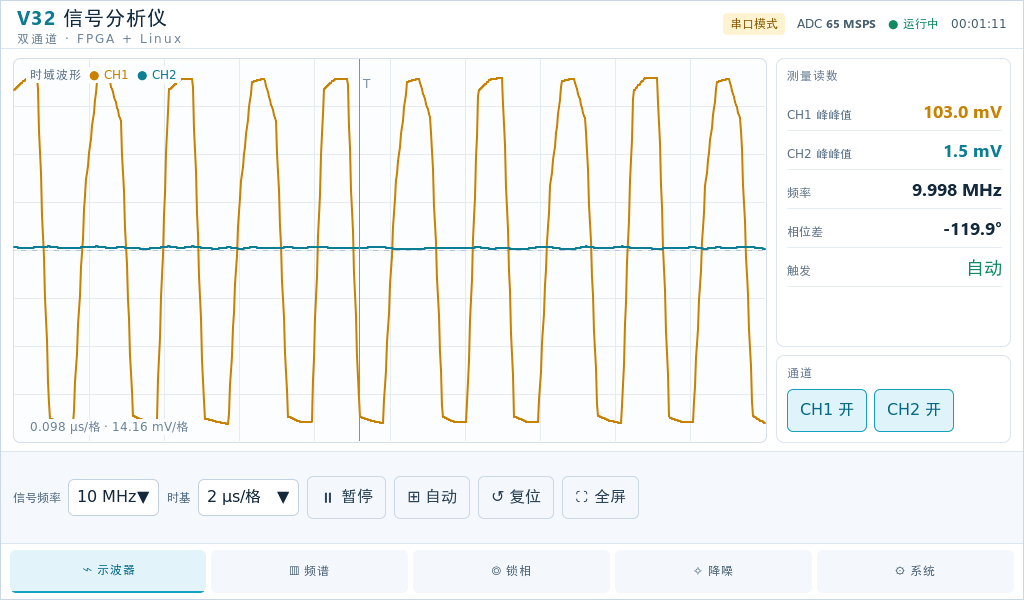
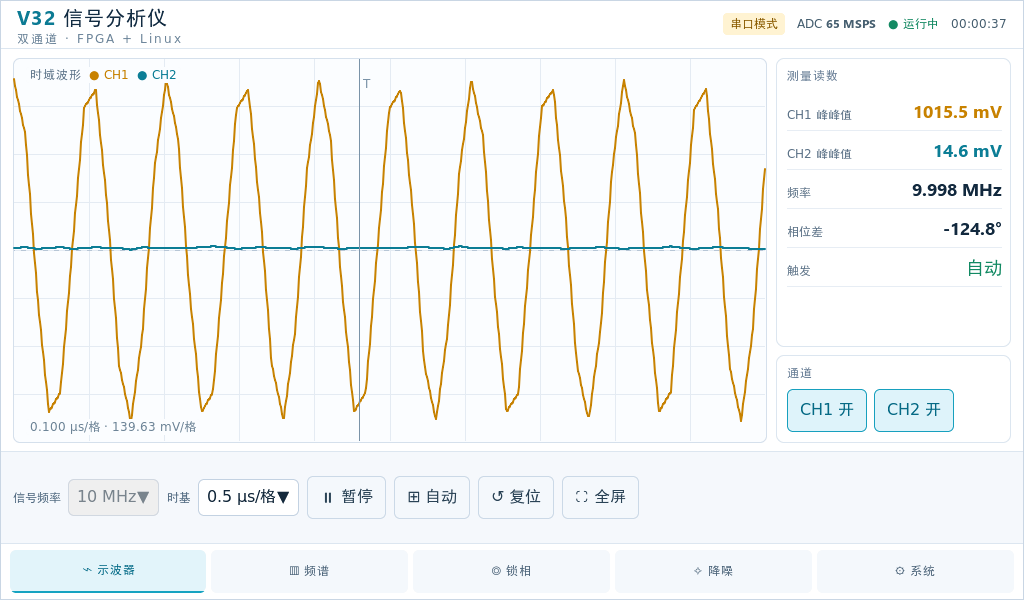
自动设置按 10 个周期框窗 + 修正电压 10 倍误差 + 时基下拉框真正可用
- 新增 auto_fit_apply()：用同一帧 FFT 峰值频率把窗口框成正好 10 个周期，
  纵向满刻度 = 峰峰值的 110%（按显示窗口统计，不是整帧）
- cb_auto 只置 S.auto_fit 标志，两指捏放/改时基/复位都会清掉，不会抢回窗口
- V32_ADC_MV_PER_LSB 0.2441 -> 2.441：原来按数据手册的 1Vpp 满量程推的，
  实际前端是 10:1 衰减，导致所有电压读数小 10 倍（1Vpp 显示 100mV）
- 时基下拉框改成真正控制时间窗口（原来点了只覆盖标签，等于没用），
  并自动同步到最接近的档位，避免「显示 2µs/格 而实际 6.302」
- 信号频率下拉框在真实模式下置灰：频率由 FFT 实测，它只对 --source demo 有意义
- 捏合最小窗口 64 -> 8 点，能贴到单样点看
- v32cap3 加 WAVE_IDXDBG 诊断：打印每帧 start_idx 步进

diff --git a/src/ui.c b/src/ui.c
@@ -103,6 +103,7 @@ static struct {
     float phase;        /* ° */
     bool  fullscreen;
     bool  use_real;     /* WAVE_SRC=real */
+    bool  auto_fit;     /* 按下「自动」后等下一帧真实数据到位再算窗口 */
     demo_sig_t sig;
 } S;
 
@@ -124,6 +125,7 @@ static lv_obj_t *s_lbl_clock, *s_lbl_run_status;
 
 static lv_obj_t *s_chip_ch1, *s_chip_ch2, *s_chip_ai, *s_chip_run;
 static lv_obj_t *s_dd_freq;
+static lv_obj_t *s_dd_tb;              /* 时基下拉框，真实模式下要跟着窗口同步 */
 
 /*
  * 原来这里还有 s_slider_noise / s_lbl_noise（控制条上的「噪声」滑条）。
@@ -484,7 +486,19 @@ static int      s_zoom_start;
 
 #define ZOOM_GAIN_MIN   0.05f
 #define ZOOM_GAIN_MAX   200.0f
+
+/*
+ * 横向最少显示多少个样点（= 最大放大倍率）。
+ * 原来是 64 点（≈0.98 µs），10 MHz 以下根本放不到 1 个周期里看细节。
+ * 现在放开到 8 点（≈0.123 µs），配合下面的线性插值分支，能贴到单个样点看。
+ * 上限就是整帧 4096 点 —— 一帧只有 63 µs，这是接收端的硬边界，不是缩放限制。
+ */
+#define ZOOM_SPAN_MIN   8
+
 static float    s_gain = 1.0f;          /* 1.0 = 按整帧满幅铺满 */
+/* 程序里同步「时基」下拉框时置位，避免 set_selected 反过来触发 cb_timebase
+ * 把刚捏好的窗口又按档位拍扁（会形成「捏不动」的假象）。 */
+static bool     s_tb_lock;
 
 /* 抽样中位数当底噪：每 16 个 bin 取一个，插入排序足够快，
  * 而且不会被单根强谱线带偏（用平均值就会）。 */
@@ -544,6 +558,63 @@ static float phase_diff_deg(const float *x0, const float *x1, int n,
     return d * 180.0f / pi;
 }
 
+static void update_axis_label(void);
+static void sync_timebase_dd(float us_div);
+
+/*
+ * 「自动」（AUTO / 自动设置）真正要做的两件事：
+ *   ① 横向：用 FFT 峰值频率把窗口框成**正好 10 个完整周期**
+ *   ② 纵向：满刻度 = 峰峰值的 **110%**（波形居中，上下各留 5%）
+ *
+ * 为什么不放在 cb_auto() 里直接算：峰值频率是 real_update() 里 FFT 算出来的，
+ * 按下 AUTO 的那一刻它多半还是上一帧的值。放到 real_update() 末尾，
+ * 用的就是同一帧刚算好的 s_real_peak_hz，窗口和读数天然一致。
+ *
+ * 只执行一次，算完清标志。之后两指捏放立即接管 —— ui_pinch_zoom/gain 会把
+ * S.auto_fit 清掉，不然你捏完松手它又跳回 10 个周期，会以为是手势乱了。
+ */
+static void auto_fit_apply(int fn)
+{
+    if(fn < 8) return;
+
+    /* ① 10 个完整周期 */
+    if(s_real_peak_hz > 1.0f) {
+        const wave_source_t *src = wave_source_get();
+        const float fs = (src && src->sample_rate > 0)
+                       ? (float)src->sample_rate : 65000000.0f;
+        int span = (int)(10.0f * fs / s_real_peak_hz + 0.5f);
+        if(span < 4)  span = 4;
+        if(span > fn) span = fn;
+        s_zoom_span  = span;
+        s_zoom_start = (fn - span) / 2;
+    }
+
+    /* ② 满刻度 = 峰峰值的 110%。
+     *    峰峰值按**显示窗口**统计，不按整帧 —— 整帧里有个毛刺就会把波形压小，
+     *    那就不是「纵轴最高到峰峰值的 110%」了。 */
+    {
+        const int st0 = s_zoom_start;
+        const int n   = (s_zoom_span > 0) ? s_zoom_span : fn;
+        float mn = s_full0[st0], mx = s_full0[st0];
+        for(int i = 0; i < n && st0 + i < fn; i++) {
+            const float v0 = s_full0[st0 + i];
+            const float v1 = s_full1[st0 + i];
+            if(v0 < mn) mn = v0;
+            if(v0 > mx) mx = v0;
+            if(v1 < mn) mn = v1;
+            if(v1 > mx) mx = v1;
+        }
+        float span = mx - mn;
+        if(span < 1e-3f) span = 1e-3f;
+        s_real_lo = mn - span * 0.05f;
+        s_real_sc = 1.0f / (span * 1.10f);
+    }
+
+    s_gain = 1.0f;
+    S.auto_fit = false;
+    update_axis_label();
+}
+
 static void real_update(void)
 {
     /*
@@ -574,6 +645,9 @@ static void real_update(void)
          * 让上层画零线，而不是把最后一帧冻在屏幕上。 */
         if((uint32_t)(lv_tick_get() - s_real_t_last) > REAL_STALE_MS) return;
         s_real_valid = true;
+        /* 按了 AUTO 但这一帧没变（比如刚按完就暂停）也要把窗口算出来，
+         * 否则标志一直挂着，等下一帧才生效，看着像 AUTO 没反应。 */
+        if(S.auto_fit) auto_fit_apply(s_full_n);
         return;
     }
 
@@ -645,6 +719,8 @@ static void real_update(void)
     s_real_fid   = st->last_frame_id;
     s_real_t_last = lv_tick_get();
     s_real_valid = true;
+
+    if(S.auto_fit) auto_fit_apply(fn);
 }
 
 /*
@@ -755,6 +831,32 @@ static void update_axis_label(void)
         lv_label_set_text(s_lbl_scope_axis, buf);
         snprintf(last, sizeof last, "%s", buf);
     }
+
+    sync_timebase_dd(us_div);
+}
+
+/* 把「时基」下拉框拨到和当前真实窗口最接近的那一档。
+ *
+ * 为什么不干脆不显示：这个下拉框现在是真的能改窗口的（cb_timebase），
+ * 如果它停在「2 µs/格」而左边读数写着 6.302，用户会以为又被骗了。
+ * 它是**档位**不是精确值，精确值看左下角那行。 */
+static void sync_timebase_dd(float us_div)
+{
+    if(!s_dd_tb || !S.use_real) return;
+
+    int   best  = 0;
+    float bestd = 1e9f;
+    for(int i = 0; i < 5; i++) {
+        float d = us_div - TIMEBASE_US[i];
+        if(d < 0.f) d = -d;
+        if(d < bestd) { bestd = d; best = i; }
+    }
+    if((int)lv_dropdown_get_selected(s_dd_tb) == best) return;
+
+    S.tb_idx  = best;
+    s_tb_lock = true;
+    lv_dropdown_set_selected(s_dd_tb, (uint32_t)best);
+    s_tb_lock = false;
 }
 
 /*
@@ -772,7 +874,7 @@ void ui_pinch_zoom(float scale, float anchor)
     if(s_zoom_span <= 0 || s_zoom_span > total) s_zoom_span = total;
 
     int span = (int)((float)s_zoom_span / scale + 0.5f);
-    if(span < 64) span = 64;                 /* 最小 64 点 ≈ 0.98 µs */
+    if(span < ZOOM_SPAN_MIN) span = ZOOM_SPAN_MIN;   /* 最小 8 点 ≈ 0.123 µs */
     if(span > total) span = total;
 
     const int anchor_sample = s_zoom_start + (int)(anchor * (float)s_zoom_span);
@@ -783,6 +885,7 @@ void ui_pinch_zoom(float scale, float anchor)
 
     s_zoom_span  = span;
     s_zoom_start = start;
+    S.auto_fit = false;          /* 手动缩放立即接管，别让 AUTO 又跳回 10 个周期 */
     update_axis_label();
 }
 
@@ -796,6 +899,7 @@ void ui_pinch_gain(float ratio)
     s_gain *= ratio;
     if(s_gain < ZOOM_GAIN_MIN) s_gain = ZOOM_GAIN_MIN;
     if(s_gain > ZOOM_GAIN_MAX) s_gain = ZOOM_GAIN_MAX;
+    S.auto_fit = false;          /* 纵向手动调整同样接管，理由见 ui_pinch_zoom */
     if(S.ch1 || S.ch2) update_axis_label();
 }
 
@@ -1303,13 +1407,41 @@ static void cb_freq(lv_event_t *e)
 
 static void cb_timebase(lv_event_t *e)
 {
+    if(s_tb_lock) return;        /* 程序在同步档位，不是用户点的 */
     S.tb_idx = (int)lv_dropdown_get_selected(lv_event_get_target(e));
-    /* 真实数据时时基由帧长决定（4096 点 @65 MSPS = 63 µs 满屏），
-     * 下拉框只对演示数据有意义 —— 所以写完立刻让 update_axis_label() 覆盖回去，
-     * 否则真实链路下点一下下拉框，左下角就变成和波形对不上的假读数。 */
-    if(S.use_real) update_axis_label();
-    else            lv_label_set_text_fmt(s_lbl_scope_axis, "%g µs/格 · 触发 自动",
-                                         (double)TIMEBASE_US[S.tb_idx]);
+
+    if(S.use_real) {
+        /*
+         * 真实链路：这个下拉框**现在真的改时间窗口**。
+         * 以前这里只是把标签覆盖回去，点了等于没反应 —— 用户会以为控件坏了。
+         *
+         *   一屏 = V32_GRID_X 格  ⇒  span = (µs/格) × 格数 × fs
+         *
+         * 上限是整帧：4096 点 @65 MSPS 只有 63 µs，想看更长的时间窗
+         * 只能让 FPGA 端做抽取（协议头里有 decimation 字段，见 v32cap3.h）。
+         */
+        const wave_source_t *src = wave_source_get();
+        const float fs = (src && src->sample_rate > 0) ? (float)src->sample_rate : 65000000.0f;
+        const int   total = s_full_n > 0 ? s_full_n : V32_POINTS;
+
+        int span = (int)(TIMEBASE_US[S.tb_idx] * 1e-6f * fs * (float)V32_GRID_X + 0.5f);
+        if(span < ZOOM_SPAN_MIN) span = ZOOM_SPAN_MIN;
+        if(span > total)         span = total;
+
+        /* 以当前窗口中心为基准缩放，改时基时波形不会突然跳到一边 */
+        const int c = s_zoom_start + ((s_zoom_span > 0 ? s_zoom_span : total) / 2);
+        int start = c - span / 2;
+        if(start < 0) start = 0;
+        if(start > total - span) start = total - span;
+
+        s_zoom_span  = span;
+        s_zoom_start = start;
+        S.auto_fit   = false;        /* 手动改时基就退出 AUTO 跟踪 */
+        update_axis_label();
+    } else {
+        lv_label_set_text_fmt(s_lbl_scope_axis, "%g µs/格 · 触发 自动",
+                              (double)TIMEBASE_US[S.tb_idx]);
+    }
     ui_tick();
 }
 
@@ -1388,9 +1520,17 @@ static void cb_auto(lv_event_t *e)
 {
     LV_UNUSED(e);
 
-    s_zoom_span  = 0;
-    s_zoom_start = 0;
-    s_gain       = 1.0f;
+    if(S.use_real) {
+        /* 真实链路：只置标志。窗口由 real_update() 末尾的 auto_fit_apply()
+         * 用**同一帧**刚算好的 FFT 峰值频率去框 10 个完整周期，
+         * 这里自己改 s_zoom_span 的话会跟真实帧对不上。 */
+        S.auto_fit = true;
+    } else {
+        /* 演示源没有真实 FFT，保持原来的「整帧 + 1:1」 */
+        s_zoom_span  = 0;
+        s_zoom_start = 0;
+    }
+    s_gain = 1.0f;
 
     S.running = true;
     S.ch1 = true;
@@ -1415,10 +1555,12 @@ static void cb_reset(lv_event_t *e)
     S.win_idx = WIN_DEF; S.tau_idx = TAU_DEF; S.phase = 43.7f;
     S.sig.t = 0.f;
 
-    /* 显示缩放回位：整帧 + 纵向 1:1（示波器的「自动设置」） */
+    /* 显示缩放回位：整帧 + 纵向 1:1（这是「复位」，不是「自动」——
+     * 自动走的是 auto_fit_apply()，会按 FFT 峰值频率框 10 个周期） */
     s_zoom_span  = 0;
     s_zoom_start = 0;
     s_gain       = 1.0f;
+    S.auto_fit   = false;
     /* 控件回位（设了下拉框会触发 VALUE_CHANGED，顺手把状态也同步了） */
     lv_dropdown_set_selected(s_dd_freq, (uint32_t)FREQ_DEF);
     {
@@ -1484,6 +1626,12 @@ static void build_controls(lv_obj_t *root)
     lv_obj_t *g1 = mk_group(bar, "信号频率");
     s_dd_freq = mk_dropdown(g1, FREQ_OPTS, FREQ_DEF, cb_freq);
     lv_obj_set_style_max_width(s_dd_freq, V32_SEL_MAX_W, LV_PART_MAIN);
+    /*
+     * 真实数据时这个下拉框改不动任何东西 —— 信号频率是 FFT 从真实帧里量出来的
+     * （示波器页左下角「频率」那一项），下拉框只在 --source demo 下有意义。
+     * 与其让人点了没反应以为坏了，不如直接置灰。
+     */
+    if(S.use_real) lv_obj_add_state(s_dd_freq, LV_STATE_DISABLED);
 
     /*
      * 原来这里还有一组「噪声」滑条（lv_slider + 百分比标签）。
@@ -1499,6 +1647,7 @@ static void build_controls(lv_obj_t *root)
 
     lv_obj_t *gs = mk_group(cp, "时基");
     lv_obj_t *dd_tb = mk_dropdown(gs, TIMEBASE_OPTS, TIMEBASE_DEF, cb_timebase);
+    s_dd_tb = dd_tb;
     lv_obj_set_style_max_width(dd_tb, V32_SEL_MAX_W, LV_PART_MAIN);
     s_ctrl_grp[UI_PAGE_SCOPE] = gs;
 

diff --git a/src/v32cap3.c b/src/v32cap3.c
@@ -57,6 +57,7 @@ static int         s_baud_actual;   /* 驱动实际生效的波特率 */
 static uint32_t    s_last_id;
 static uint64_t    s_last_index;
 static int         s_have_last;
+static int         s_idxdbg = -1;   /* -1 = 还没查环境变量；见 WAVE_IDXDBG */
 
 /* 帧率统计窗口 */
 static struct timespec s_fps_t0;
@@ -242,6 +243,23 @@ static void v32_feed(const uint8_t *data, int n)
                 continue;
             }
             s_st.missing_frames += delta - 1u;
+        }
+
+        /*
+         * 帧连续性诊断（WAVE_IDXDBG=1 打开）。
+         *
+         * 协议头的 start_idx 是这个窗口在 ADC 样点序列里的绝对下标。
+         *   d = 4096  ⇒ 相邻帧在时间上严丝合缝，理论上可以拼接成更长的一段
+         *   d ≫ 4096 ⇒ 帧与帧之间有空洞（串口来不及传，中间全丢了），
+         *              那就**绝对不能**把两帧接起来当成连续信号画。
+         * 这个判断决定了「能不能在软件里看更长的时间窗」，所以留着这个开关。
+         */
+        if (s_idxdbg < 0) s_idxdbg = getenv("WAVE_IDXDBG") ? 1 : 0;
+        if (s_idxdbg) {
+            fprintf(stderr, "[idx] fid=%u start=%llu d=%lld decim=%u\n",
+                    (unsigned)fid, (unsigned long long)start_idx,
+                    s_have_last ? (long long)(start_idx - s_last_index) : -1LL,
+                    (unsigned)dec);
         }
 
         s_stage.frame_id    = fid;

diff --git a/src/v32cap3.h b/src/v32cap3.h
@@ -109,10 +109,20 @@ int                v32_uart_loopback_test(const char *dev, int baud, int bytes);
 /* 把 int16 ADC 码值转成毫伏。
  *
  * ⚠ 这个换算**依赖模拟前端量程**，协议里只给码值，没给伏特。
- *    默认按 AD9238 差分 1 Vpp 满量程、4096 码估：
- *        1000 mV / 4096 = 0.2441 mV/码
- *    真实量程（前端衰减/增益）定下来后改这一个数就行。
+ *
+ * 实测标定（不要按数据手册猜，这里已经踩过一次）：
+ *   · 交接包实测证据 `30m_100mv_normal_01`：发生器 100 mVpp
+ *     → 拟合 Vpp 41.23 码 → 2.426 mV/码
+ *   · 板上复核：发生器 1 Vpp → 界面读数 100 mV，正好差 10 倍
+ * 两个来源互相印证，说明前端有 10:1 衰减（或 ADC 等效满量程 10 Vpp）：
+ *        1000 mV × 10 / 4096 = 2.441 mV/码
+ *
+ * 以前这里写的是 0.2441（按「AD9238 差分 1 Vpp 满量程」从手册推的），
+ * 后果是**所有电压读数都小 10 倍** —— 1 Vpp 显示成 100 mV，
+ * 连带着每格毫伏、Vpp 读数、纵向量程全错。
+ *
+ * 换前端板卡必须重新标定：给一个已知幅度的正弦，用读数反算这一个常数。
  */
-#define V32_ADC_MV_PER_LSB   0.2441f
+#define V32_ADC_MV_PER_LSB   2.441f
 
 #endif /* V32CAP3_H */

diff --git a/README.md b/README.md
@@ -18,6 +18,10 @@
 
 界面是**白底 + 中文**，按钮条从左到右：`⏸ 暂停` / `⊞ 自动` / `↺ 复位` / `⛶ 全屏`。
 
+**`⊞ 自动`**：按 FFT 实测的峰值频率把窗口框成**正好 10 个完整周期**，
+纵向满刻度设成**峰峰值的 110%**（波形居中，上下各留 5%）。10 MHz 实测结果
+是 `0.100 µs/格`、`139.63 mV/格`（8 格 × 139.63 = 1.117 V = 1.10 × 1.0155 V）。
+
 ---
 
 ## 0. 先看效果
@@ -738,6 +742,12 @@ WAVE_TDBG=1 /usr/bin/waveform_demo --source uart --view scope --baud 921600 &
 8. **降噪页的「5 点中值」会让边沿看起来变陡**：65 MSPS 下 10 MHz 每周期只有
    6.5 点，跳变的 1~2 个过渡样点在 5 点窗口里是少数派，被中值当离群点压掉了。
    真实上升时间被抹掉，所以**边沿宽度不能以这一页为准**；面板上已写明。
+9. **一屏最多 63 µs，这是接收端的硬边界**：4096 点 @65 MSPS = 63.015 µs，
+   缩放上限就是整帧。实测相邻两帧的 `start_idx` 相差 **11,683,694 个样点**
+   （一帧才 4096），也就是说两帧之间丢掉了 99.96% 的采样，**帧与帧不能拼接**。
+   所以 10 kHz 以下的信号一屏显示不满一个周期，任何 UI 缩放都救不回来 ——
+   只能让 FPGA 端做抽取（协议头 offset 20 的 `decimation` 字段就是干这个的，
+   现在接收端还只接受 `dec=1`，见第 13 节）。
 
 ---
 
@@ -795,3 +805,26 @@ git remote set-url origin https://github.com/Creamy-coffee/rk3506-waveform-demo.
 
 但**不要用 `git config credential.helper store`**——那会把明文令牌写进
 `~/.git-credentials`。本工程一直是用一次性的 `http.extraheader` 传令牌，不落盘。
+
+---
+
+## 13. 想显示更长时间窗：只能在 FPGA 端抽取
+
+`v32cap3.h` 的帧头 offset 20 是 `decimation` 字段，协议设计时就留了这个位置。
+接收端目前**只接受 `dec=1`**（`v32cap3.c` 的帧头校验里 `dec != V32_DECIMATION` 直接丢弃）。
+
+一帧固定 4096 点，所以能显示的时间窗只由抽样率决定：
+
+| decimation | 有效采样率 | 一帧时长 | 15 kHz 信号一屏几个周期 |
+|---|---|---|---|
+| 1（现在） | 65 MSPS | 63.0 µs | 0.94 |
+| 4 | 16.25 MSPS | 252 µs | 3.8 |
+| 16 | 4.06 MSPS | 1.008 ms | 15 |
+| 64 | 1.016 MSPS | 4.03 ms | 60 |
+
+改 FPGA 只需要在成帧前对 ADC 数据做 4/16/64 点平均或抽取，并把 `decimation`
+字段填成对应值。接收端这边需要同步改三处：
+帧头校验放宽到 `dec >= 1`、`sample_rate` 改成 `fs/dec`、时间轴/频率轴跟着走。
+
+⚠ 抽取会降低有效带宽：`dec=64` 时等效采样率 1.016 MSPS，奈奎斯特只剩 508 kHz，
+30 MHz 的信号会被完全混叠掉。**高低频要用不同的抽取档，不能一个档通吃。**
